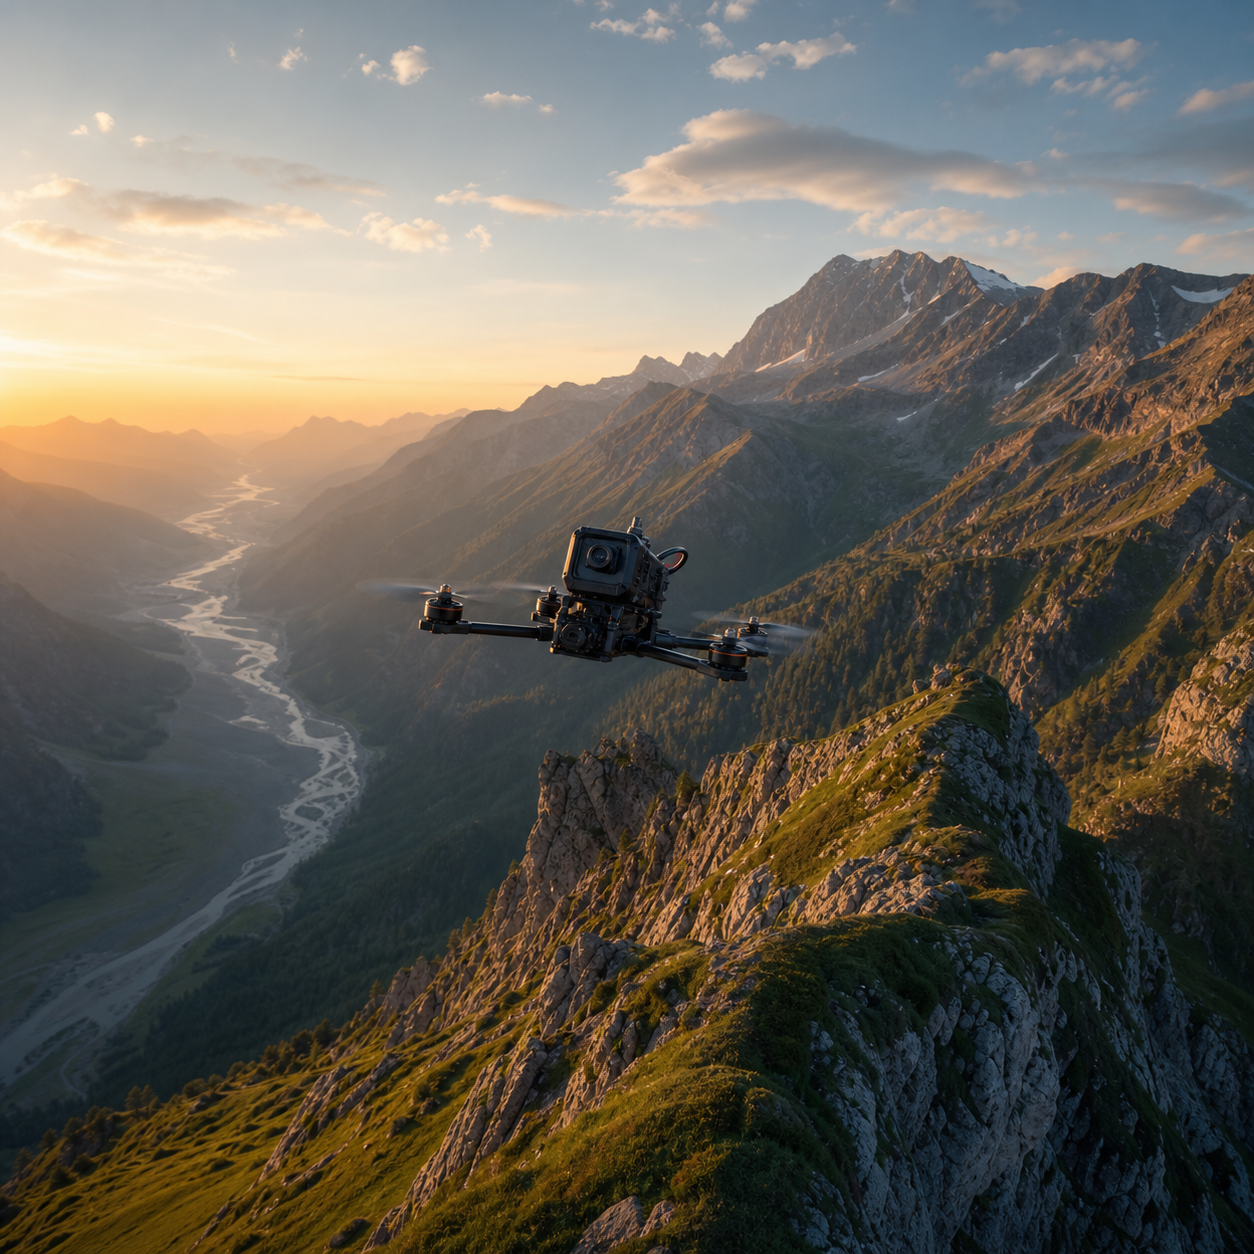
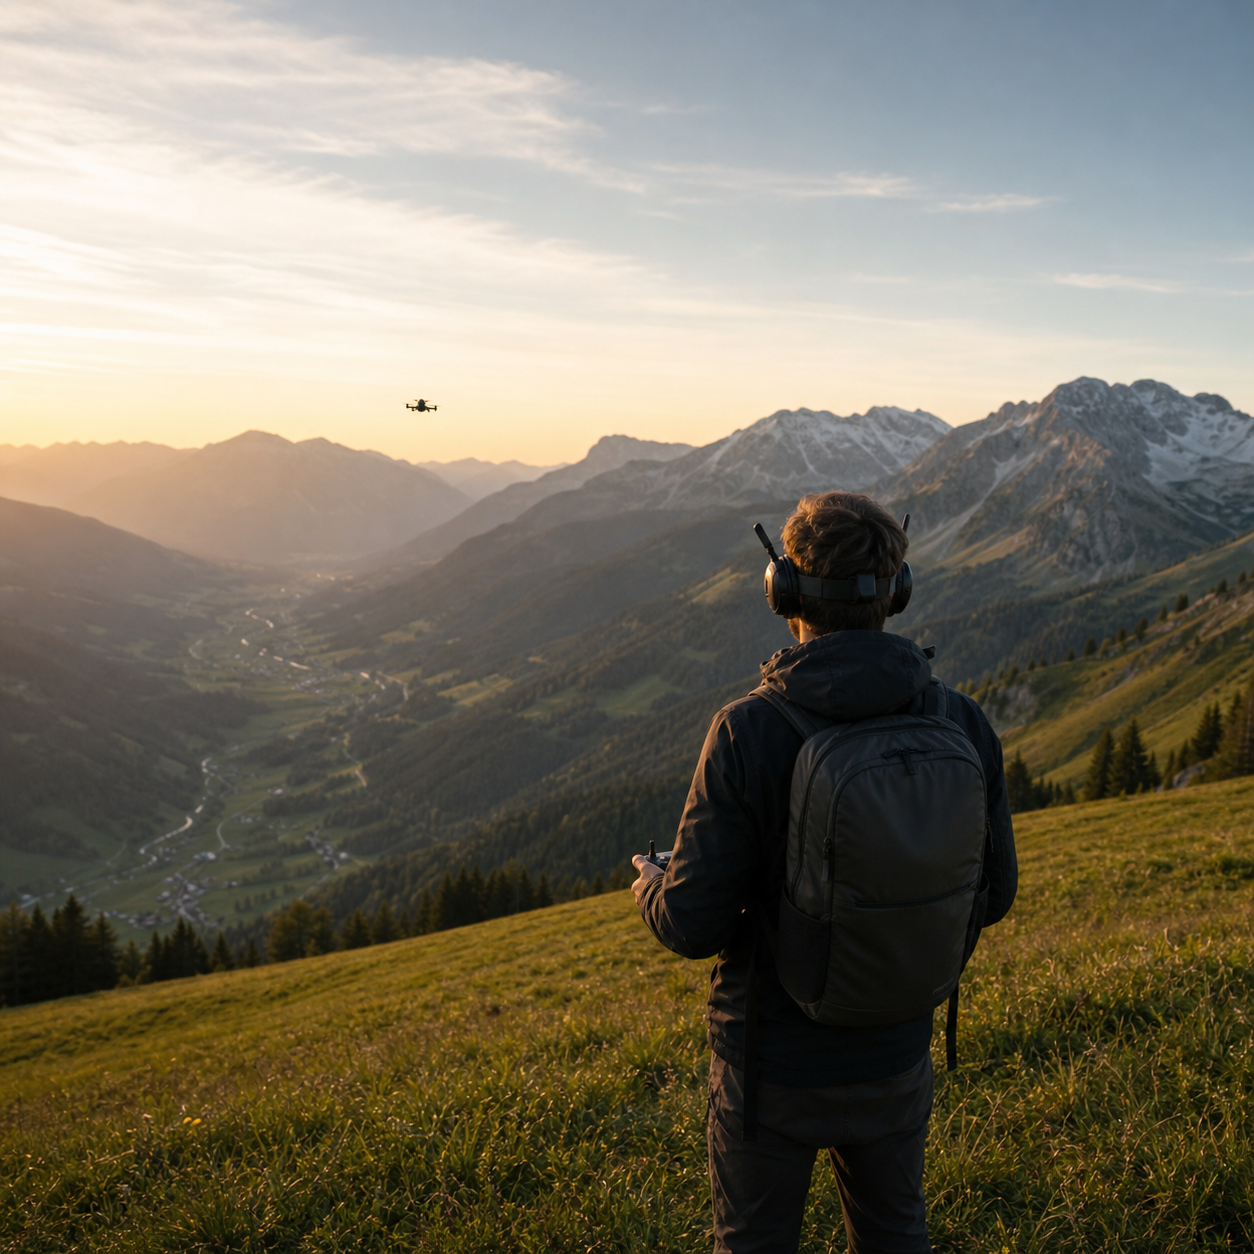
add more assets, fix the content of the first ttwo row, fix the style of the first two rows.

diff --git a/styles.css b/styles.css
@@ -5,61 +5,78 @@ body{
     font-family: Roboto, system-ui, -apple-system, BlinkMacSystemFont, 'Segoe UI', Roboto, Oxygen, Ubuntu, Cantarell, 'Open Sans', 'Helvetica Neue', sans-serif;
 }
 
-/*header*/
+/*1. first row*/
+
+
+.first-row{
+    display: flex;
+    flex-direction: column;
+    background-color: #1F2937;
+    width: 100%;
+    height: 530px;
+
+}
+
+/*1a. header*/
+
 .header{
     display: flex;
-    outline: 2px solid red;
-    background-color: #1F2937;
     justify-content: space-evenly;
-    align-items: center;
-    flex-grow: 1;
-    padding-bottom: 1cm;
-
+    align-items: flex-start;
+    padding-bottom: 0.5cm;
 }
 
 .logo{
     font-size: 24px;
     color: #F9FAF8;
+    padding: 0px;
+}
+
+.logo img{
+    width: 100px;
+    height: auto;
 }
 
 .links ul{
     display: flex;
     list-style: none;
-    gap: 10px; 
+    gap: 25px; 
 }
 
 .links a{
     text-decoration: none;
     color: white;
+    font-size: 18px;
 }
 
-/*first row*/
+/*1b. content area*/ 
 
-.first-row{
+.content{
     display: flex;
     justify-content: center;
     width: 100%;
     height: auto;
     background-color: #1F2937;
-    padding-bottom: 100px;
+    margin: auto;
 }
 
 .welcome{
-    outline: 2px solid red;
-    width: 900px;
+    width: 1100px;
     display: flex;
-    justify-content: space-evenly;
     gap: 100px;
+    padding: 50px;
+    padding-top: 0px;
 }
 
 .left-content{
-    outline: 2px solid black;
     width:500px;
     color: white;
+
 }
 
 .welcome .left-content .main-text{
     font-size: 48px;
+    font-weight: 900;
     margin-top: 0px;
     margin-bottom: 0%;
 }
@@ -68,34 +85,43 @@ body{
     font-size: 18px;
 }
 
+.left-content .signup{
+    background-color: #3882F6;
+    color: white;
+    font-size: 18px;
+    padding-bottom: 5px;
+    padding-top: 5px;
+    padding-left: 15px;
+    padding-right: 15px;
+    border-radius: 5%;
+}
+
 
 .photo{
     display: flex;
     flex-direction: column;
-    outline: 2px red solid ;
-    width: 400px;
-    height: 200px;
-}
-
-.photo img{
-    width: 400px;
+    width: auto;
     height: auto;
 }
 
-/*second row*/
+.photo img{
+    width: 520px;
+    height: auto;
+}
+
+/* 2. second row*/
 
 .second-row{
-    outline: 2px solid yellow;
     background-color: white
     width: 100%;
     height: 400px;
     display: flex;
     flex-direction: column;
     justify-content: center;
+    padding-bottom: 70px;
 }
 
 .card{
-    outline: 2px solid yellow;
     display: flex;
     width: 150px;
     justify-content: center;
@@ -103,18 +129,16 @@ body{
 }
 
 h1{
-    outline: 2px solid blue;
     padding: 0px;
-    margin-bottom: 0.7cm;
+    margin-bottom: 1cm;
     text-align: center;
 }
 
 .info{
-    outline: 2px solid red;
     display: flex;
     align-content: center;
     justify-content: center;
-    gap: 15px;
+    gap: 50px;
     width: 700px;
     height: auto;
     margin: 0 auto
@@ -144,7 +168,7 @@ h1{
 
 }
 
-/*Third row*/
+/* 3. Third row*/
 
 .third-row{
     outline: 2px solid red;
@@ -177,7 +201,7 @@ h1{
     text-align: right;
 }
 
-/*fifth row*/
+/*4. forth row*/
 
 .forth-row{
     width:100%;
@@ -206,7 +230,7 @@ h1{
     justify-content: center;
 }
 
-/* Footer */
+/* 5. Fifth: Footer */
 
 .footer{
     width: 100%;

diff --git a/index.html b/index.html
@@ -7,27 +7,29 @@
   <link rel="stylesheet" href="styles.css">
 </head>
 <body>
-  <div class="header"> 
-    <div class="logo"> <p>Header Logo</p></div>  
-    <div class="links">
-      <ul>
-        <li><a href="#">First Link</a></li>
-        <li><a href="#">Second Link</a></li>
-        <li><a href="#">Third Link</a></li>
-      </ul>
-    </div>
-  </div>
   <div class="first-row">
-    <div class="welcome">
-      <div class="left-content">
-          <p class="main-text">A Home for FPV Community</h2>
-          <p class="secondary-text">From filmmakers to racers—and everyone in between. If you share a passion for FPV, you're welcome here. Join us to support one another, share your knowledge, and grow together as a community.</p>
-          <button class="signup">Sign Up</button>
-      </div>
-      <div class="photo">
-        <img src="assets/welcome-photo.jpg" alt="A fast flying fpv drone photo taken from front angle" rel="noreferer">
+    <div class="header">
+      <div class="logo"> <img src="assets/logo.png" alt="Logo"> </div>  
+      <div class="links">
+        <ul>
+          <li><a href="#">About Us</a></li>
+          <li><a href="#">Blog</a></li>
+          <li><a href="#">Social Media</a></li>
+        </ul>
       </div>
     </div>
+    <div class="content">
+      <div class="welcome">
+        <div class="left-content">
+            <p class="main-text">A Home for FPV Community</h2>
+            <p class="secondary-text">From filmmakers to racers—and everyone in between. If you share a passion for FPV, you're welcome here. Join us to support one another, share your knowledge, and grow together as a community.</p>
+            <button class="signup">Sign Up</button>
+        </div>
+        <div class="photo">
+          <img src="assets/welcome-photo.jpg" alt="A fast flying fpv drone photo taken from front angle" rel="noreferer">
+        </div>
+      </div>
+    </div> 
   </div> 
   <div class="second-row">
     <h1>One community. Every way to fly.</h1>
